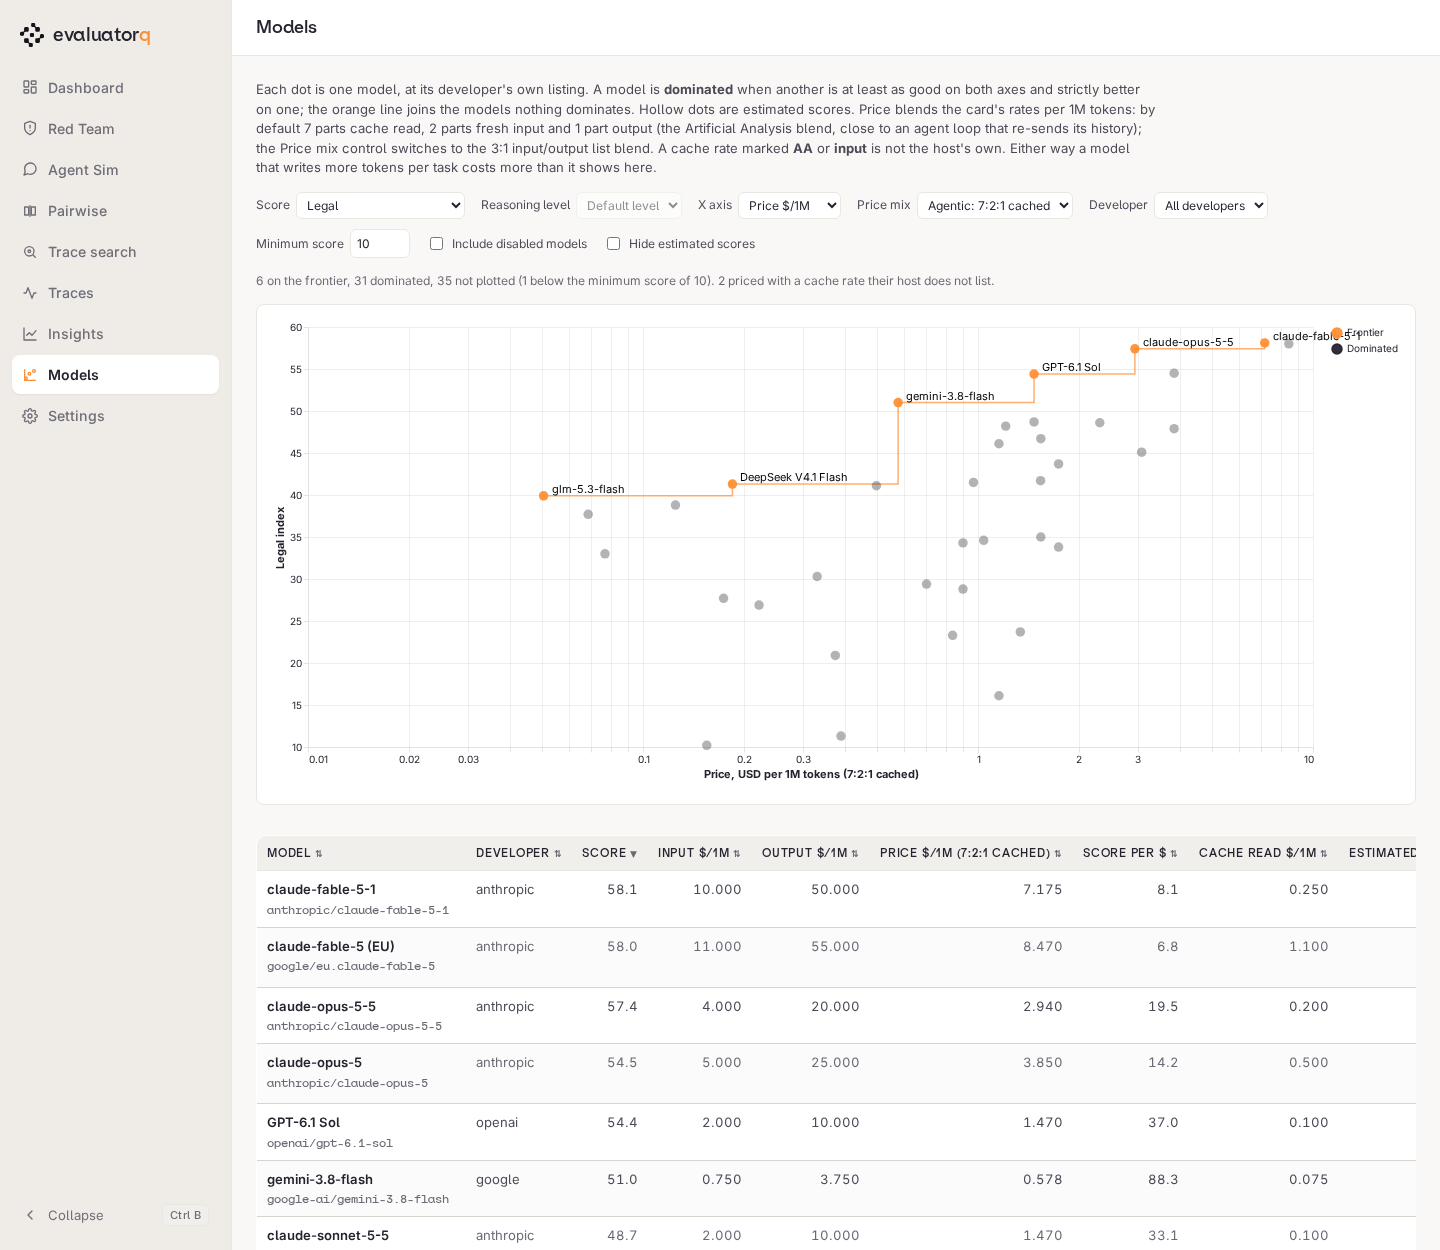
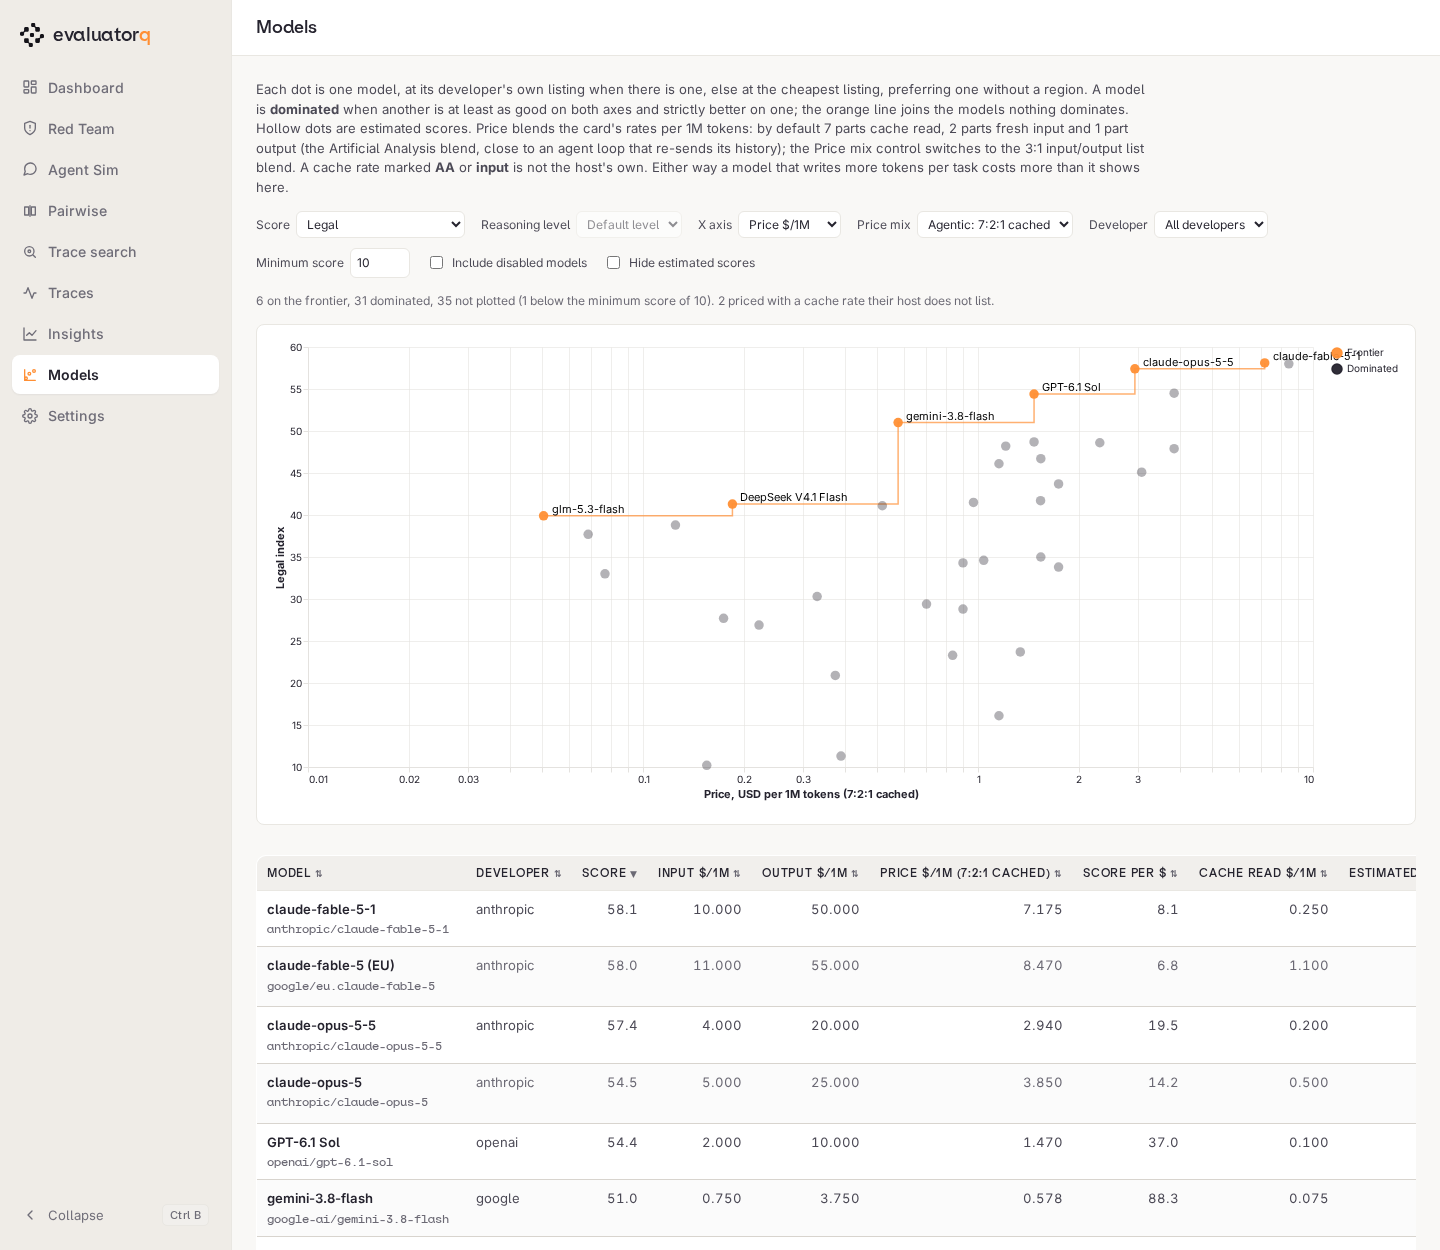
fix: match short model ids and correct Models page wording
find_model now tries the full router id, then the part after the provider, then the last path segment, and refuses any step with more than one match, so --model qwen3-coder-30b-a3b-instruct finds tensorix/qwen/qwen3-coder-30b-a3b-instruct.

The Models page intro names how the kept listing is chosen, the domain-index effort messages say the one effort Artificial Analysis benchmarked, and the Price mix tooltip names all four slots. Screenshots retaken.

docs/model-pareto.md links each provider caching claim to the vendor page it was checked against and names RES-1926 for the Gemini storage-price field.

diff --git a/src/evaluatorq/dashboard/models_views.py b/src/evaluatorq/dashboard/models_views.py
@@ -127,7 +127,9 @@ def _filters_html(
         )
 
     effort_disabled = (
-        ' disabled title="Domain indices exist only at the default effort"' if index != 'intelligence' else ''
+        ' disabled title="Domain indices exist only at the one effort Artificial Analysis benchmarked"'
+        if index != 'intelligence'
+        else ''
     )
     mix_disabled = ' disabled title="The mix applies only to the price axis"' if x != 'price' else ''
     mix_options = [(name, _MIX_OPTION_LABELS[name]) for name in PRICE_MIXES]
@@ -148,8 +150,8 @@ def _filters_html(
         f'{options([("", "Default level"), *((e, e) for e in efforts)], effort)}</select></label>'
         f'<label>X axis <select name="x" onchange="this.form.submit()">'
         f'{options([(v, X_AXIS_SPECS[v].short_label) for v in X_AXES], x)}</select></label>'
-        '<label title="How the price axis blends token prices, as cache read : fresh input : output. Add '
-        '?mix=READ:WRITE:FRESH:OUTPUT to the address for your own ratio.">'
+        '<label title="How the price axis blends token prices, as cache read : cache write : fresh input : output. '
+        'Add ?mix=READ:WRITE:FRESH:OUTPUT to the address for your own ratio.">'
         f'Price mix <select name="mix" onchange="this.form.submit()"{mix_disabled}>'
         f'{options(mix_options, mix.name or mix.ratio)}</select></label>'
         f'<label>Developer <select name="developer" onchange="this.form.submit()">'
@@ -380,7 +382,8 @@ async def models_page(req: Request) -> HTMLResponse:
     mix = _mix(q.get('mix'))
     models, alert = await _load(req, include_disabled=bool(q.get('disabled')))
     intro = (
-        '<p class="models-intro">Each dot is one model, at its developer\'s own listing. A model is '
+        '<p class="models-intro">Each dot is one model, at its developer\'s own listing when there is one, '
+        'else at the cheapest listing, preferring one without a region. A model is '
         '<b>dominated</b> when another is at least as good on both axes and strictly better on one; the orange '
         "line joins the models nothing dominates. Hollow dots are estimated scores. Price blends the card's rates "
         'per 1M tokens: by default 7 parts cache read, 2 parts fresh input and 1 part output (the Artificial Analysis '

diff --git a/tests/unit/test_models.py b/tests/unit/test_models.py
@@ -240,7 +240,7 @@ class TestPareto:
         assert result.excluded[0].router_id == 'b/mid'
 
     def test_domain_index_refuses_an_effort(self) -> None:
-        with pytest.raises(ValueError, match='default reasoning effort'):
+        with pytest.raises(ValueError, match='one effort Artificial Analysis benchmarked'):
             pareto([MID], index='legal', effort='high')
 
     def test_unknown_axis_is_refused(self) -> None:
@@ -513,6 +513,23 @@ class TestFindModel:
         assert find_model(pool, model_id='cheap') == CHEAP
         assert find_model(pool, model_id='mid') is None  # two hosts share the bare id
         assert find_model(pool, model_id='nope') is None
+
+    def test_three_part_router_id(self) -> None:
+        coder = model('tensorix/qwen/qwen3-coder-30b-a3b-instruct', 9.6, 0.05, 0.2)
+        pool = [MID, coder, CHEAP]
+        assert find_model(pool, model_id='tensorix/qwen/qwen3-coder-30b-a3b-instruct') == coder
+        assert find_model(pool, model_id='qwen/qwen3-coder-30b-a3b-instruct') == coder
+        assert find_model(pool, model_id='qwen3-coder-30b-a3b-instruct') == coder
+
+    def test_ambiguous_short_ids_are_refused(self) -> None:
+        a = model('tensorix/qwen/qwen3-coder', 9.6, 0.05, 0.2)
+        b = model('other/qwen/qwen3-coder', 9.6, 0.06, 0.2)
+        c = model('deepinfra/qwen3-coder', 9.6, 0.07, 0.2)
+        assert find_model([a, b], model_id='qwen/qwen3-coder') is None
+        assert find_model([a, b], model_id='qwen3-coder') is None
+        # The id after the provider decides before the last segment is tried.
+        assert find_model([a, c], model_id='qwen3-coder') == c
+        assert find_model([a, c], model_id='qwen/qwen3-coder') == a
 
 
 @pytest.fixture

diff --git a/src/evaluatorq/models_cli.py b/src/evaluatorq/models_cli.py
@@ -115,7 +115,9 @@ def _checked_options(*, index: str, x: str, effort: str | None, mix: str | None)
     if x not in X_AXES:
         raise typer.BadParameter(f'choose one of {", ".join(X_AXES)}', param_hint='--x')
     if effort is not None and index != 'intelligence':
-        raise typer.BadParameter('domain indices exist only at the default effort', param_hint='--effort')
+        raise typer.BadParameter(
+            'domain indices exist only at the one effort Artificial Analysis benchmarked', param_hint='--effort'
+        )
     if mix is not None and x != 'price':
         raise typer.BadParameter('a price mix applies only to --x price', param_hint='--mix')
     try:
@@ -140,7 +142,8 @@ def pareto_cmd(
         typer.Option(
             '--model',
             help='Show only this model, compared against every other model in the comparison, including when --provider '
-            'would leave it out. A provider/model id, or a bare id held by exactly one model. Repeatable.',
+            'would leave it out. The full router id, or the id after the provider or its last part when exactly one '
+            'model has it. Repeatable.',
         ),
     ] = None,
     effort: Annotated[
@@ -208,7 +211,7 @@ def pareto_cmd(
             match = find_model(pool, model_id=model_id)
             if match is None:
                 raise typer.BadParameter(
-                    f'{model_id!r} matches no model, or more than one; pass the provider/model id', param_hint='--model'
+                    f'{model_id!r} matches no model, or more than one; pass the full router id', param_hint='--model'
                 )
             shown.add(match.router_id)
             named[match.router_id] = match

diff --git a/src/evaluatorq/models.py b/src/evaluatorq/models.py
@@ -337,12 +337,22 @@ def load_models_sync(*, include_disabled: bool = False, all_hosts: bool = False)
 
 
 def find_model(models: Sequence[ScoredModel], *, model_id: str) -> ScoredModel | None:
-    """The model matching `model_id`: an exact `provider/model` id, else a bare id held by exactly one model."""
+    """The model matching `model_id`, or None when nothing or more than one model matches.
+
+    Tried in order, the first step with any match deciding: the exact router id;
+    the id after the provider (`qwen/qwen3-coder` for
+    `tensorix/qwen/qwen3-coder`); for an id without a `/`, the last path
+    segment (`qwen3-coder`). A step that matches more than one model is
+    ambiguous and returns None rather than falling through.
+    """
     exact = next((m for m in models if m.router_id == model_id), None)
-    if exact is not None or '/' in model_id:
+    if exact is not None:
         return exact
-    bare = [m for m in models if m.router_id.split('/', 1)[-1] == model_id]
-    return bare[0] if len(bare) == 1 else None
+    after_provider = [m for m in models if m.router_id.split('/', 1)[-1] == model_id]
+    if after_provider or '/' in model_id:
+        return after_provider[0] if len(after_provider) == 1 else None
+    last_segment = [m for m in models if m.router_id.rsplit('/', 1)[-1] == model_id]
+    return last_segment[0] if len(last_segment) == 1 else None
 
 
 __all__ = [

diff --git a/src/evaluatorq/common/model_frontier.py b/src/evaluatorq/common/model_frontier.py
@@ -428,7 +428,9 @@ def check_axes(*, index: str, effort: str | None, x: str) -> None:
     if x not in X_AXIS_SPECS:
         raise ValueError(f'unknown x axis {x!r}; choose one of {", ".join(X_AXES)}')
     if effort is not None and index != 'intelligence':
-        raise ValueError('domain indices exist only at the default reasoning effort: pass effort=None')
+        raise ValueError(
+            'domain indices exist only at the one effort Artificial Analysis benchmarked: pass effort=None'
+        )
 
 
 def score_of(model: ScoredModel, *, index: Index = 'intelligence', effort: str | None = None) -> float | None:

diff --git a/docs/model-pareto.md b/docs/model-pareto.md
@@ -169,7 +169,7 @@ Read `x` for the blended price. Each point also carries a `price` field, and `pr
 
 A model below the floor is not compared, so `--model` with it prints `<id> is not plotted: score <n> is below min_score 10.` on stderr and `No models on the frontier for these filters.` on stdout; add `--min-score 0` to compare it. `dominated_by()` in Python applies no floor.
 
-A bare id such as `gpt-6.1-sol` must match exactly one model; otherwise the CLI exits `2` and `find_model` returns `None`. A bare id works only for a two-part id such as `openai/gpt-6.1-sol`: for a three-part id such as `tensorix/qwen/qwen3-coder-30b-a3b-instruct`, pass the full id. `--model` only sees the one listing kept per model (see [One dot per model](#one-dot-per-model)), so the full id of a host that was not kept also exits `2`. Comparing a specific host is Python-only, through `load_models(all_hosts=True)`.
+`--model` takes the full router id or a shorter one. For `tensorix/qwen/qwen3-coder-30b-a3b-instruct`, `qwen/qwen3-coder-30b-a3b-instruct` (the part after the provider) and `qwen3-coder-30b-a3b-instruct` (the last part) both work. The full id is tried first, then the part after the provider, then the last part. A shorter id must match exactly one model; otherwise the CLI exits `2` and `find_model` returns `None`. `--model` only sees the one listing kept per model (see [One dot per model](#one-dot-per-model)), so the full id of a host that was not kept also exits `2`. Comparing a specific host is Python-only, through `load_models(all_hosts=True)`.
 
 ## Choosing the axes
 
@@ -278,13 +278,13 @@ On 2026-11-23, across every host, 108 of the 119 listings with a price and an in
 
 Each of these makes the `agentic` price wrong for some workloads, and none of them shows in the output:
 
-- **Short prompts never cache.** Providers only cache a prefix above a minimum length: 512 to 4,096 tokens on Anthropic depending on the model, 1,024 on OpenAI, 2,048 to 4,096 on Gemini. A shorter prompt pays full input every time, silently, and `list` is the better guide.
-- **Caches expire.** Anthropic keeps a cache entry for 5 minutes by default, OpenAI for 30 minutes on its newest models. In a public trace of GitHub Copilot's coding agent, only 19% of input was cached on calls made after an idle gap of 5 minutes or more ([analysis](https://siddhantkhare.com/writing/coding-agent-cache-five-minutes)). An agent that waits on a human between turns pays more than the blend shows.
-- **Anthropic caches only what you mark.** Without `cache_control` breakpoints (or Anthropic's automatic top-level one), a Claude call pays full input on every turn. OpenAI, Gemini 2.5 and newer, and DeepSeek cache automatically.
-- **Cache writes cost extra on some providers.** Anthropic bills a 5-minute cache write at 1.25 times the input rate and a 1-hour write at 2 times; the default blend has no write share. Use a ratio with one, such as `7:1:1:1`, for a write-heavy loop.
-- **Gemini's cache-write rate is a storage price.** On about 13 Gemini cards the catalogue's cache-write field holds Google's hourly storage price per million tokens, not a per-token write charge, so any mix with a write share overprices those models. The default mix has no write share and is not affected.
+- **Short prompts never cache.** Providers only cache a prefix above a minimum length: 512 to 4,096 tokens on Anthropic depending on the model ([Anthropic](https://platform.claude.com/docs/en/build-with-claude/prompt-caching)), 1,024 on OpenAI's GPT-5.6 and later ([OpenAI](https://developers.openai.com/api/docs/guides/prompt-caching)), 2,048 to 4,096 on Gemini ([Google](https://aistudio.google.com/docs/caching)). A shorter prompt pays full input every time, silently, and `list` is the better guide.
+- **Caches expire.** Anthropic keeps a cache entry for 5 minutes by default ([Anthropic](https://platform.claude.com/docs/en/build-with-claude/prompt-caching)), OpenAI for 30 minutes by default on GPT-5.6 and later ([OpenAI](https://developers.openai.com/api/docs/guides/prompt-caching)). In a public trace of GitHub Copilot's coding agent, only 19% of input was cached on calls made after an idle gap of 5 minutes or more ([analysis](https://siddhantkhare.com/writing/coding-agent-cache-five-minutes)). An agent that waits on a human between turns pays more than the blend shows.
+- **Anthropic caches only what you mark.** Without `cache_control` breakpoints, or a single top-level `cache_control` that places one automatically, a Claude call pays full input on every turn ([Anthropic](https://platform.claude.com/docs/en/build-with-claude/prompt-caching#automatic-caching)). OpenAI ([OpenAI](https://developers.openai.com/api/docs/guides/prompt-caching)), Gemini 2.5 and newer ([Google](https://aistudio.google.com/docs/caching)) and DeepSeek ([DeepSeek](https://api-docs.deepseek.com/guides/kv_cache)) cache by default.
+- **Cache writes cost extra on some providers.** Anthropic bills a 5-minute cache write at 1.25 times the input rate and a 1-hour write at 2 times ([Anthropic](https://platform.claude.com/docs/en/build-with-claude/prompt-caching#pricing)); the default blend has no write share. Use a ratio with one, such as `7:1:1:1`, for a write-heavy loop.
+- **Gemini's cache-write rate is a storage price.** Google bills explicit cache storage per million tokens per hour ([Google](https://aistudio.google.com/docs/pricing)), and the catalogue's cache-write field on Gemini cards holds that storage price, not a per-token write charge: on 2026-11-23 all 10 Gemini models `load_models()` keeps carry $0.50, $1.00 or $4.50 there. Any mix with a write share overprices those models until the catalogue is fixed (RES-1926). The default mix has no write share and is not affected.
 - **Hosts of the same model price caching differently, and the kept listing ignores the cache rate.** On 2026-11-23, `gpt-oss-120b` cost $0.35 per million cache reads on `cerebras` against $0.075 on `groq`, so $0.390 against $0.143 on the default blend, yet the CLI and the dashboard keep the `cerebras` listing because the catalogue names `cerebras` as that card's developer (see [One dot per model](#one-dot-per-model)). Compare hosts in Python with `load_models(all_hosts=True)`.
-- **Time-of-day and long-context rates are averaged or ignored.** DeepSeek V4 Pro and DeepSeek Flash bill a peak rate on weekday UTC hours and half that otherwise; the blend uses the mean of the two, so a workload that runs entirely off-peak pays less than it shows. Some providers charge more above 200k tokens, and the blend reads only the standard rate.
+- **Time-of-day and long-context rates are averaged or ignored.** DeepSeek V4 Pro and DeepSeek Flash bill a peak rate on weekday UTC hours and half that otherwise ([DeepSeek](https://api-docs.deepseek.com/quick_start/pricing)); the blend uses the mean of the two, so a workload that runs entirely off-peak pays less than it shows. Some providers charge more above 200k tokens, and the blend reads only the standard rate.
 
 ## One dot per model
 

diff --git a/docs/cli-reference/models.md b/docs/cli-reference/models.md
@@ -12,7 +12,7 @@ eq models pareto [OPTIONS]
 |---|---|---|
 | `--dominated` | `bool` / `false` | List dominated models and the frontier model that beats each, instead of the frontier. |
 | `--provider` | `str` (repeatable) | Compare only models from this provider or developer, such as `openai`. Case and an `-ai` suffix are ignored, so `google` also matches `google-ai`. |
-| `--model` | `str` (repeatable) | Show only this model, compared against every other model in the comparison. A `provider/model` id, or a bare id held by exactly one model, looked up among the one listing kept per model before `--provider` filters. A three-part id such as `tensorix/qwen/qwen3-coder-30b-a3b-instruct` needs the full id. Shown whether it is on the frontier or not. |
+| `--model` | `str` (repeatable) | Show only this model, compared against every other model in the comparison. The full router id, or a shorter id that exactly one model has: the part after the provider, or the last part. It is looked up among the one listing kept per model before `--provider` filters. Shown whether it is on the frontier or not. |
 | `--effort` | `str` / none | Score the intelligence index at this reasoning effort instead of each model's default. Only with `--index intelligence`, and only an effort at least one catalogue model has a score at. |
 | `--index` | `str` / `intelligence` | The y axis: `intelligence`, `economics`, `engineering`, `finance_and_accounting`, `healthcare_and_medical`, `legal` or `strategy_and_ops`. An index no catalogue model has a score on is refused. |
 | `--x` | `str` / `price` | The x axis: `price` (blended price per million tokens, see `--mix`), `output_speed` or `time_to_first_token`. |
